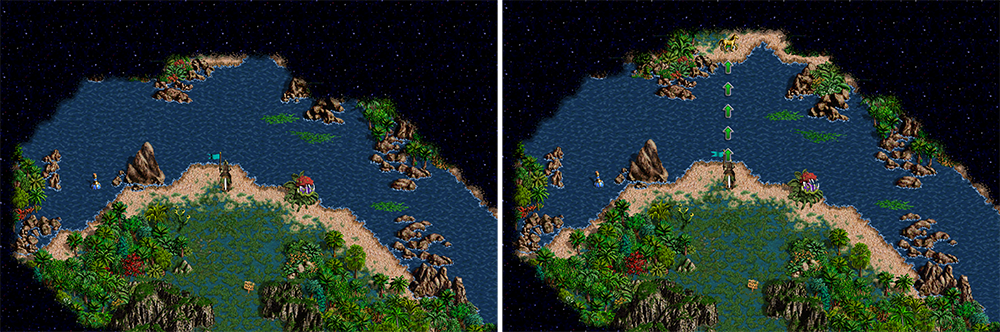
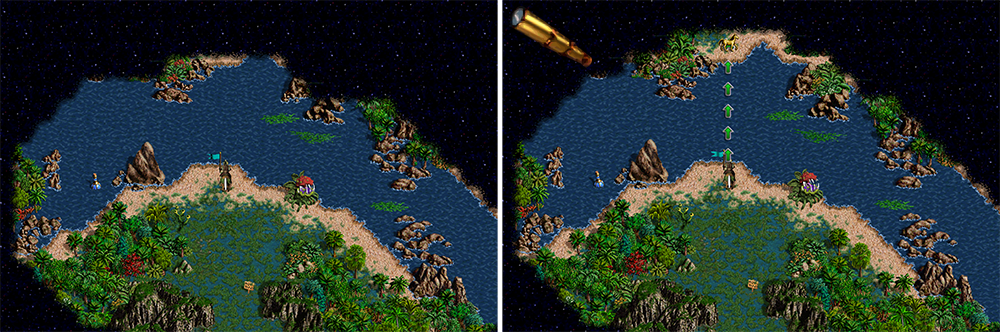
Editor info
Добавлена информация на страницу редактора карт.

Changed region(s): [[0.496, 0.0301, 0.589, 0.2108]]

diff --git a/editor-page-m.html b/editor-page-m.html
@@ -103,6 +103,7 @@
 						<li class="story-link"><a href="#5.10">5.10 Ловушка для противника</a></li>
 						<li class="story-link"><a href="#5.11">5.11 Использование противника</a></li>
 						<li class="story-link"><a href="#5.12">5.12 Радиус обзора</a></li>
+						<li class="story-link"><a href="#5.13">5.13 Поле событий</a></li>
 					</ul>
 				</details>
 			</div>
@@ -583,6 +584,16 @@
 				[t]Для реализации понадобится река шириной в [s]5 клеток[/s] и [s]Сапоги левитации[/s] у героя, как говорилось ранее. Когда герой без каких-либо артефактов подойдет к краю реки, он не сможет увидеть другой берег из за своего радиуса обзора, а следовательно и перебежать по воде он не сможет. Чтобы это исправить, герою предстоит отыскать на карте [s]Подзорную трубу[/s], которую предусмотрительно разместит автор. Таким образом его радиус разведки увеличится на [s]1 единицу[/s] и другой берег реки станет доступен.<br><br>
 				[t]Кроме [s]Подзорной трубы[/s] можно использовать [s]Телескоп[/s] (он увеличит радиус на [s]2 клетки[/s]), а также [s]Вторичный навык Разведка[/s] (увеличивает радиус обзора вплоть до [s]10 клеток[/s] в зависимости от его уровня). Исходя из того, что игрок в Вашем сценарии должен использовать, нужно корректировать ширину реки. Можно использовать даже все вышеперечисленное, тогда герой будет способоен преодолеть реку шириной аж в [s]12 клеток[/s].<br><br>
 				[t]Одно важное замечание: Рядом не должно быть объектов, которые открывают [s]Терру инкогнито[/s], потому что территория для игрока в этой зоне должна быть закрыта, особенно это касается [s]Картографов[/s].<br>
+				<mark class="p-splitter" id="5.13"></mark>
+			</p>
+				<div class="picture slider">
+					<img class="img-double-screen" src="images/editor/events_field.png" alt="Идеи для карт">
+				</div>
+			<p>
+				[t]&bull; [s]Поле событий[/s]<br><br>
+				[t]Это похоже на головоломку в стиле "расхитителей гробниц", когда герою нужно пройти какой-то участок пути, не наступая на определенные клетки. В нашем случае клетками с ловушками будут выступать [s]События[/s].<br><br>
+				[t]Каждое [s]Событие[/s] должно содержать охрану, которую герой не сможет победить, иначе испытание не будет иметь смысла и следует сделать так, чтобы компьютерные игроки не смогли активирировать их. [s]События[/s] должны выступать границами, обрамляющими извилистый путь шириной в одну клетку. Таким образом игрок должен будет узнать последовательность шагов, чтобы пройти участок.<br><br>
+				[t]Если не давать игроку подсказок, то прохождение испытания сведется к проверке каждой клетки на поле и к постоянной загрузке игры. Если зона испытания большая (помните, что максимальное число [s]Событий[/s] на карте - 200 шт.), то нужно обязательно дать игроку инструкции по прохождению. Они могут быть хорошо спрятаны или охраняться, но в итоге игрок должен их разыскать. Перед зоной испытания будет не лишним поставить [s]Знак[/s] с предупреждением, чтобы человек лишний раз сохранил игру.<br>
 
 
 				<mark class="p-splitter"></mark><br>

diff --git a/editor-page.html b/editor-page.html
@@ -580,6 +580,12 @@
 				[t]Для реализации понадобится река шириной в [s]5 клеток[/s] и [s]Сапоги левитации[/s] у героя, как говорилось ранее. Когда герой без каких-либо артефактов подойдет к краю реки, он не сможет увидеть другой берег из за своего радиуса обзора, а следовательно и перебежать по воде он не сможет. Чтобы это исправить, герою предстоит отыскать на карте [s]Подзорную трубу[/s], которую предусмотрительно разместит автор. Таким образом его радиус разведки увеличится на [s]1 единицу[/s] и другой берег реки станет доступен.<br><br>
 				[t]Кроме [s]Подзорной трубы[/s] можно использовать [s]Телескоп[/s] (он увеличит радиус на [s]2 клетки[/s]), а также [s]Вторичный навык Разведка[/s] (увеличивает радиус обзора вплоть до [s]10 клеток[/s] в зависимости от его уровня). Исходя из того, что игрок в Вашем сценарии должен использовать, нужно корректировать ширину реки. Можно использовать даже все вышеперечисленное, тогда герой будет способоен преодолеть реку шириной аж в [s]12 клеток[/s].<br><br>
 				[t]Одно важное замечание: Рядом не должно быть объектов, которые открывают [s]Терру инкогнито[/s], потому что территория для игрока в этой зоне должна быть закрыта, особенно это касается [s]Картографов[/s].<br>
+				<mark class="p-splitter"></mark><br>
+				<img class="editor-png-img img-in-text-l" src="images/editor/events_field.png" alt="Идеи для карт" width="850">
+				[t]&bull; [s]Поле событий[/s]<br><br>
+				[t]Это похоже на головоломку в стиле "расхитителей гробниц", когда герою нужно пройти какой-то участок пути, не наступая на определенные клетки. В нашем случае клетками с ловушками будут выступать [s]События[/s].<br><br>
+				[t]Каждое [s]Событие[/s] должно содержать охрану, которую герой не сможет победить, иначе испытание не будет иметь смысла и следует сделать так, чтобы компьютерные игроки не смогли активирировать их. [s]События[/s] должны выступать границами, обрамляющими извилистый путь шириной в одну клетку. Таким образом игрок должен будет узнать последовательность шагов, чтобы пройти участок.<br><br>
+				[t]Если не давать игроку подсказок, то прохождение испытания сведется к проверке каждой клетки на поле и к постоянной загрузке игры. Если зона испытания большая (помните, что максимальное число [s]Событий[/s] на карте - 200 шт.), то нужно обязательно дать игроку инструкции по прохождению. Они могут быть хорошо спрятаны или охраняться, но в итоге игрок должен их разыскать. Перед зоной испытания будет не лишним поставить [s]Знак[/s] с предупреждением, чтобы человек лишний раз сохранил игру.<br>
 
 
 				<mark class="p-splitter"></mark><br>

diff --git a/css/blocks/objects-list.less b/css/blocks/objects-list.less
@@ -132,7 +132,7 @@
         align-items: center;
         text-align: center;
         line-height: 20px;
-        background-color: @black;
+        background-color: rgba(0,0,0,0.6);
     }
     .mob {
 	    .object-card-basic();

diff --git a/css/style.css b/css/style.css
@@ -897,7 +897,7 @@ footer .hidden {
   align-items: center;
   text-align: center;
   line-height: 20px;
-  background-color: #0d0d0d;
+  background-color: rgba(0, 0, 0, 0.6);
 }
 .objects-column .mob {
   display: grid;
